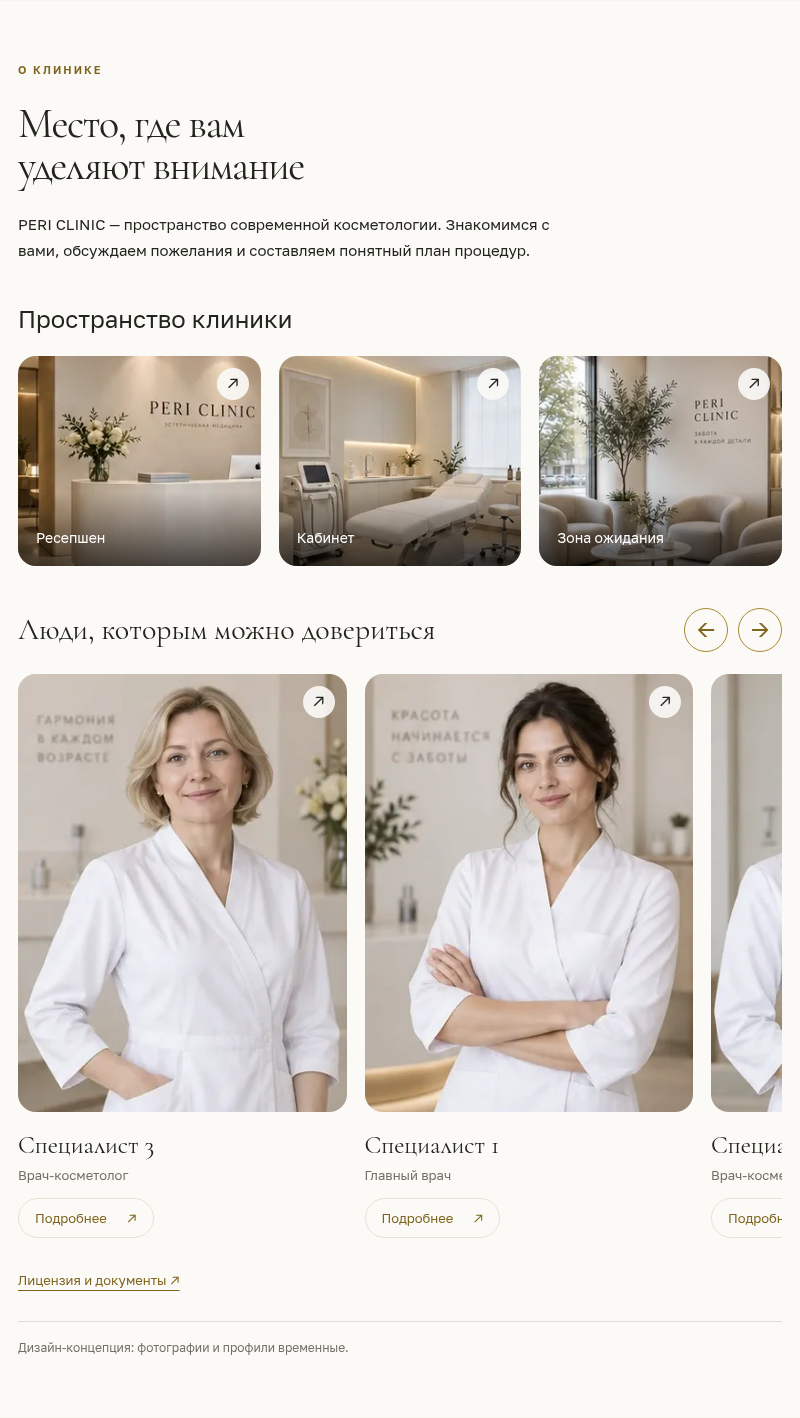
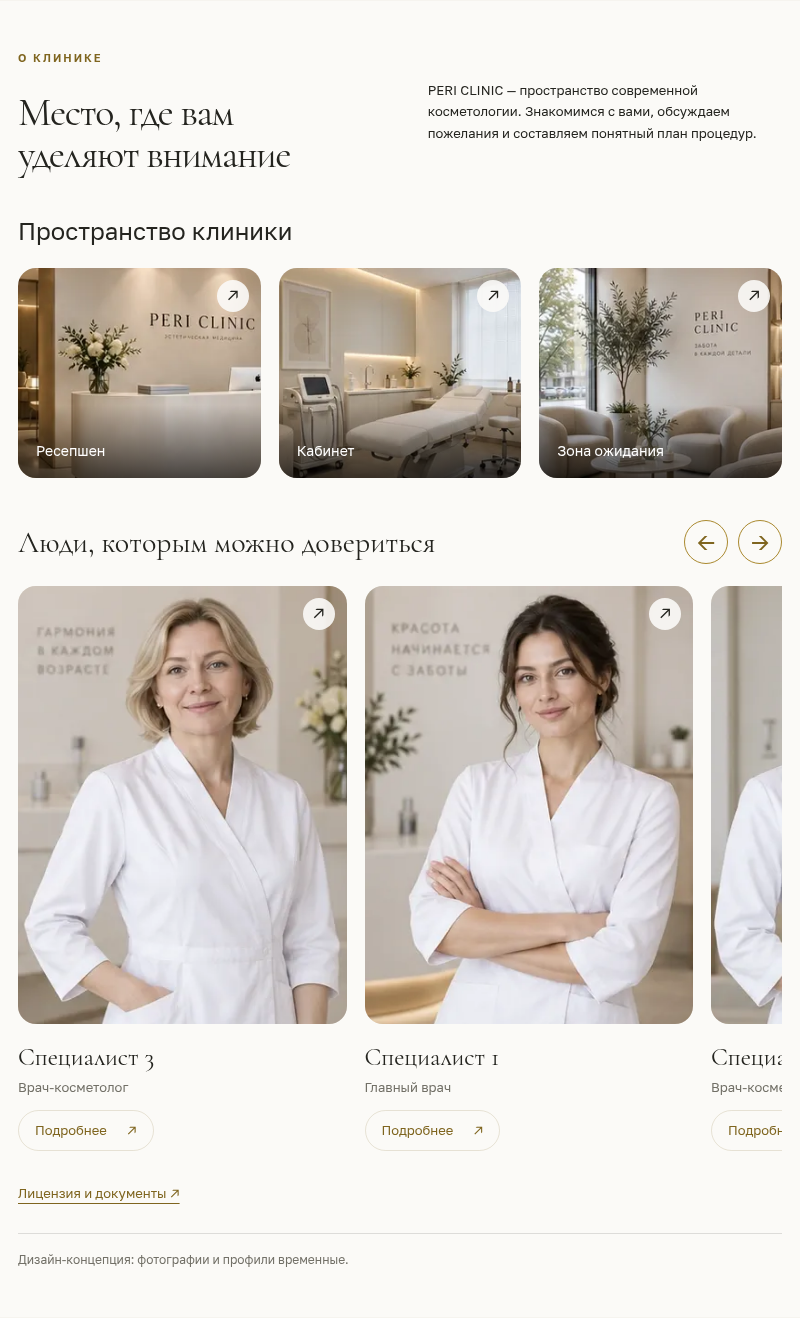
Bring mobile about section closer to desktop composition

diff --git a/docs/superpowers/plans/2026-09-13-about-clinic-handoff.md b/docs/superpowers/plans/2026-09-13-about-clinic-handoff.md
@@ -15,7 +15,7 @@ node scripts/qa/about-clinic.mjs http://127.0.0.1:4332
 node scripts/qa/about-clinic-edge.mjs http://127.0.0.1:4332
 ```
 
-Демонстрационные страницы закрыты от индексации и исключены из sitemap. Режим по умолчанию, без флага, требует настоящие коллекции. При 3 временных портретах видно 2 полных и часть третьего; на среднем экране ширина карточки 43%, на телефоне 84%. При большем числе сотрудников можно уменьшить ширину до 30%, чтобы помещались три и край следующего.
+Демонстрационные страницы закрыты от индексации и исключены из sitemap. Режим по умолчанию, без флага, требует настоящие коллекции. При 3 временных портретах видно 2 полных и часть третьего; на среднем экране ширина карточки 43%, на телефоне 35%. При большем числе сотрудников можно уменьшить ширину до 30%, чтобы помещались три и край следующего.
 
 ## CMS: требуется применение миграции
 
@@ -42,3 +42,7 @@ node directus/setup/about-schema.mjs
 Клик на фото увеличивает изображение. «Подробнее» — независимая обычная ссылка на страницу. Галереи команды и помещений не смешиваются. На странице врача увеличенный просмотр позволяет листать всю команду. Стрелки, клавиши и свайп работают циклически; автолистания нет. При закрытии главная карусель показывает последнее выбранное фото и возвращает фокус. При одной фотографии навигация скрыта. При полностью помещающейся группе стрелки основной карусели скрыты; увеличенный просмотр по-прежнему позволяет листать.
 
 Существующая карусель результатов не изменена. В `homeContent.ts` добавлена явная проверка обязательных изображений (hero, категория, CTA), устраняющая прежние ошибки nullable при проверке типов без изменения нормального отображения.
+
+## Уточнение мобильного дизайна
+
+По пожеланию пользователя мобильная композиция приближена к настольной: описание остаётся справа от заголовка, три интерьера видны в одном ряду, портреты занимают 35% ширины карусели (два полных и большая часть третьего). Уменьшены отступы и заголовки. Стрелки сохраняют размер 44 px, фото увеличиваются по нажатию; тексты и кнопки не масштабируются целиком как изображение настольной страницы. Для одной/двух карточек, помещающихся в ряд, стрелки основной карусели скрыты.
